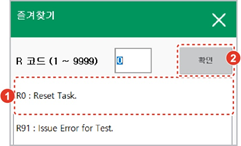
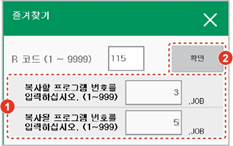
GitBook: [master] 198 pages and 4 assets modified

Changed region(s): [[0.0, 0.0, 0.9914, 1.0], [0.8112, 0.3562, 0.9013, 0.4384], [0.9313, 0.3562, 1.0, 0.4384]]

diff --git a/8-r-code/r210.md b/8-r-code/r210.md
@@ -1,2 +1,19 @@
 # 8.5 R210 스폿건 번호 선택
 
+복수의 스폿 용접건\(서보건 또는 공압건\) 사용 시 사용할 스폿건을 선택합니다.
+
+1.	즐겨찾기 창에서 210을 입력한 후 \[확인\] 버튼을 터치하거나 &lt;enter&gt; 키를 누르십시오.
+
+2.	사용할 스폿건 번호를 입력한 후 \[확인\] 버튼을 터치하거나 &lt;enter&gt; 키를 누르십시오.
+
+![](../.gitbook/assets/image%20%28262%29.png)
+
+* Hi6 티치 펜던트 화면 좌측의 \[건\] 버튼에 선택한 스폿건 번호가 표시됩니다.
+* 스폿건 번호를 변경하면 스폿건 대응 툴 번호에 지정된 툴 번호가 자동으로 변경됩니다. 스폿건 대응 툴 번호는 \[설정 &gt; 4: 응용파라미터 &gt; 1: 스폿용접 &gt; 1: 건번호 대응 툴번호, 건타입 설정\] 메뉴에서 확인할 수 있습니다.
+
+{% hint style="info" %}
+* 로봇 기동 중에는 R210 코드를 사용할 수 없습니다.
+* 스폿 용접 환경\(\[설정 &gt; 5: 초기화 &gt; 3: 용도설정\] 메뉴의 \[스폿용접\] 항목을 유효로 설정\)에서만 스폿건 번호를 설정할 수 있습니다.
+* 선택한 스폿 용접건은 수동으로 건개폐 및 건가압 동작을 실행할 수 있습니다. 스폿 용접 기능에 대한 자세한 내용은 “Hi6제어기 스폿용접 기능 설명서”를 참조하십시오.
+{% endhint %}
+

diff --git a/8-r-code/r115.md b/8-r-code/r115.md
@@ -1,2 +1,19 @@
 # 8.3 R115 프로그램 복사
 
+메인 보드의 JOB 프로그램을 메인 보드의 다른 프로그램으로 복사합니다. 복사할 프로그램 번호를 입력한 후에 복사될 프로그램 번호를 입력하십시오.
+
+1.	즐겨찾기 창에서 115를 입력한 후 \[확인\] 버튼을 터치하거나 &lt;enter&gt; 키를 누르십시오.
+
+2.	복사할 프로그램\(원본\) 번호와 복사될 프로그램\(대상\) 번호를 입력한 후 \[확인\] 버튼을 터치하거나 &lt;enter&gt; 키를 누르십시오. 프로그램이 복사됩니다.
+
+![](../.gitbook/assets/image%20%28260%29.png)
+
+* 복사될 프로그램과 동일한 번호의 프로그램이 이미 존재하는 경우에는 해당 파일로의 덮어쓰기 여부를 선택해야 합니다.
+* 복사할 원본 파일이 없으면 알림 메시지\(“원본 파일이 존재하지 않습니다.”\)가 나타납니다.
+
+{% hint style="info" %}
+자동 모드에서는 R115 코드를 사용할 수 없습니다. 반드시 수동 모드에서 사용하십시오.
+{% endhint %}
+
+
+

diff --git a/8-r-code/r117.md b/8-r-code/r117.md
@@ -1,2 +1,19 @@
 # 8.4 R117 프로그램 삭제
 
+내부 메모리의 프로그램을 개별적으로 삭제합니다.
+
+1.	즐겨찾기 창에서 117을 입력한 후 \[확인\] 버튼을 터치하거나 &lt;enter&gt; 키를 누르십시오.
+
+2.	삭제할 프로그램 번호를 입력한 후 \[확인\] 버튼을 터치하거나 &lt;enter&gt; 키를 누르십시오. 삭제 확인창이 나타납니다.
+
+![](../.gitbook/assets/image%20%28263%29.png)
+
+* 삭제할 파일이 없으면 알림 메시지\(“파일이 존재하지 않습니다.”\)가 나타납니다.
+* 보호 설정된 프로그램을 삭제하려하면 알림 메시지\(“보호된 파일입니다.”\)가 나타납니다
+
+3.	삭제 확인창에서 \[확인\] 버튼을 터치하거나 &lt;enter&gt; 키를 누르십시오. 선택한 프로그램이 삭제됩니다.
+
+{% hint style="info" %}
+자동 모드에서는 R117 코드를 사용할 수 없습니다. 반드시 수동 모드에서 사용하십시오.
+{% endhint %}
+

diff --git a/8-r-code/r0.md b/8-r-code/r0.md
@@ -2,7 +2,7 @@
 
 즐겨찾기 창에서 0을 입력한 후 \[확인\] 버튼을 터치하거나 &lt;enter&gt; 키를 누르십시오.
 
-![](../.gitbook/assets/image%20%28260%29.png)
+![](../.gitbook/assets/image%20%28261%29.png)
 
 스텝 카운터를 초기화하여 STEP0으로 이동합니다. 또한 다음의 기능을 실행할 수 있습니다.
 
